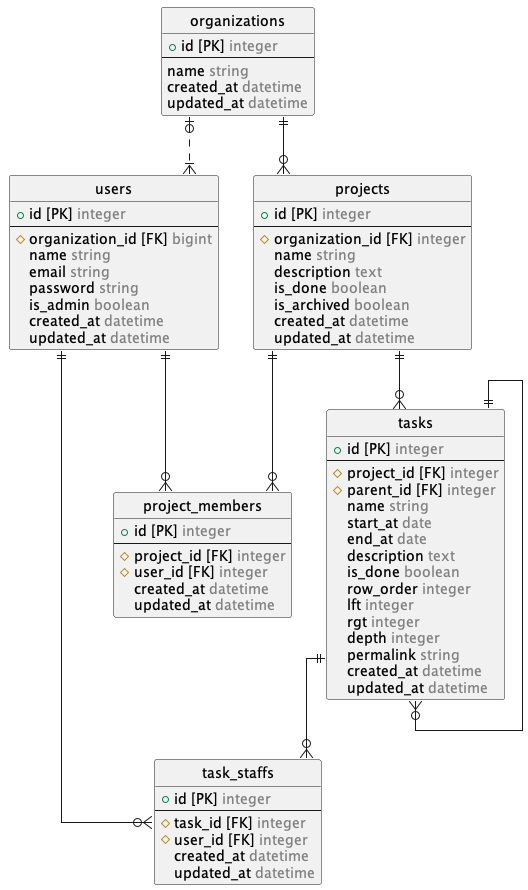
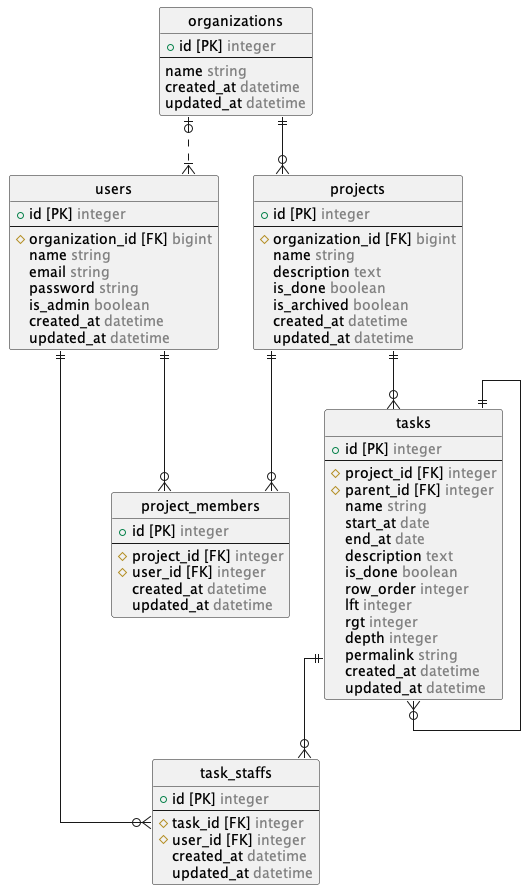
chore: #78 projectsテーブルにindexと外部キー制約を追加する

diff --git a/db/schema.rb b/db/schema.rb
@@ -10,7 +10,7 @@
 #
 # It's strongly recommended that you check this file into your version control system.
 
-ActiveRecord::Schema[7.0].define(version: 2023_10_21_084743) do
+ActiveRecord::Schema[7.0].define(version: 2023_10_22_051309) do
   create_table "organizations", charset: "utf8mb4", collation: "utf8mb4_0900_ai_ci", force: :cascade do |t|
     t.string "name"
     t.datetime "created_at", null: false
@@ -26,13 +26,14 @@ ActiveRecord::Schema[7.0].define(version: 2023_10_21_084743) do
   end
 
   create_table "projects", charset: "utf8mb4", collation: "utf8mb4_0900_ai_ci", force: :cascade do |t|
-    t.integer "organization_id"
+    t.bigint "organization_id"
     t.string "name"
     t.text "description"
     t.boolean "is_done", default: false, null: false
     t.boolean "is_archived", default: false, null: false
     t.datetime "created_at", null: false
     t.datetime "updated_at", null: false
+    t.index ["organization_id"], name: "fk_rails_9aee26923d"
   end
 
   create_table "task_staffs", charset: "utf8mb4", collation: "utf8mb4_0900_ai_ci", force: :cascade do |t|
@@ -82,5 +83,6 @@ ActiveRecord::Schema[7.0].define(version: 2023_10_21_084743) do
     t.index ["reset_password_token"], name: "index_users_on_reset_password_token", unique: true
   end
 
+  add_foreign_key "projects", "organizations"
   add_foreign_key "users", "organizations"
 end

diff --git a/db/migrate/20231022051309_add_foreign_key_to_organization_id_in_projects.rb b/db/migrate/20231022051309_add_foreign_key_to_organization_id_in_projects.rb
@@ -1,0 +1,12 @@
+class AddForeignKeyToOrganizationIdInProjects < ActiveRecord::Migration[7.0]
+  def up
+    change_column :projects, :organization_id, :bigint
+    add_foreign_key :projects, :organizations
+  end
+
+  def down
+    remove_foreign_key :projects, :organizations
+    remove_index :projects, :organization_id
+    change_column :projects, :organization_id, :integer
+  end
+end
